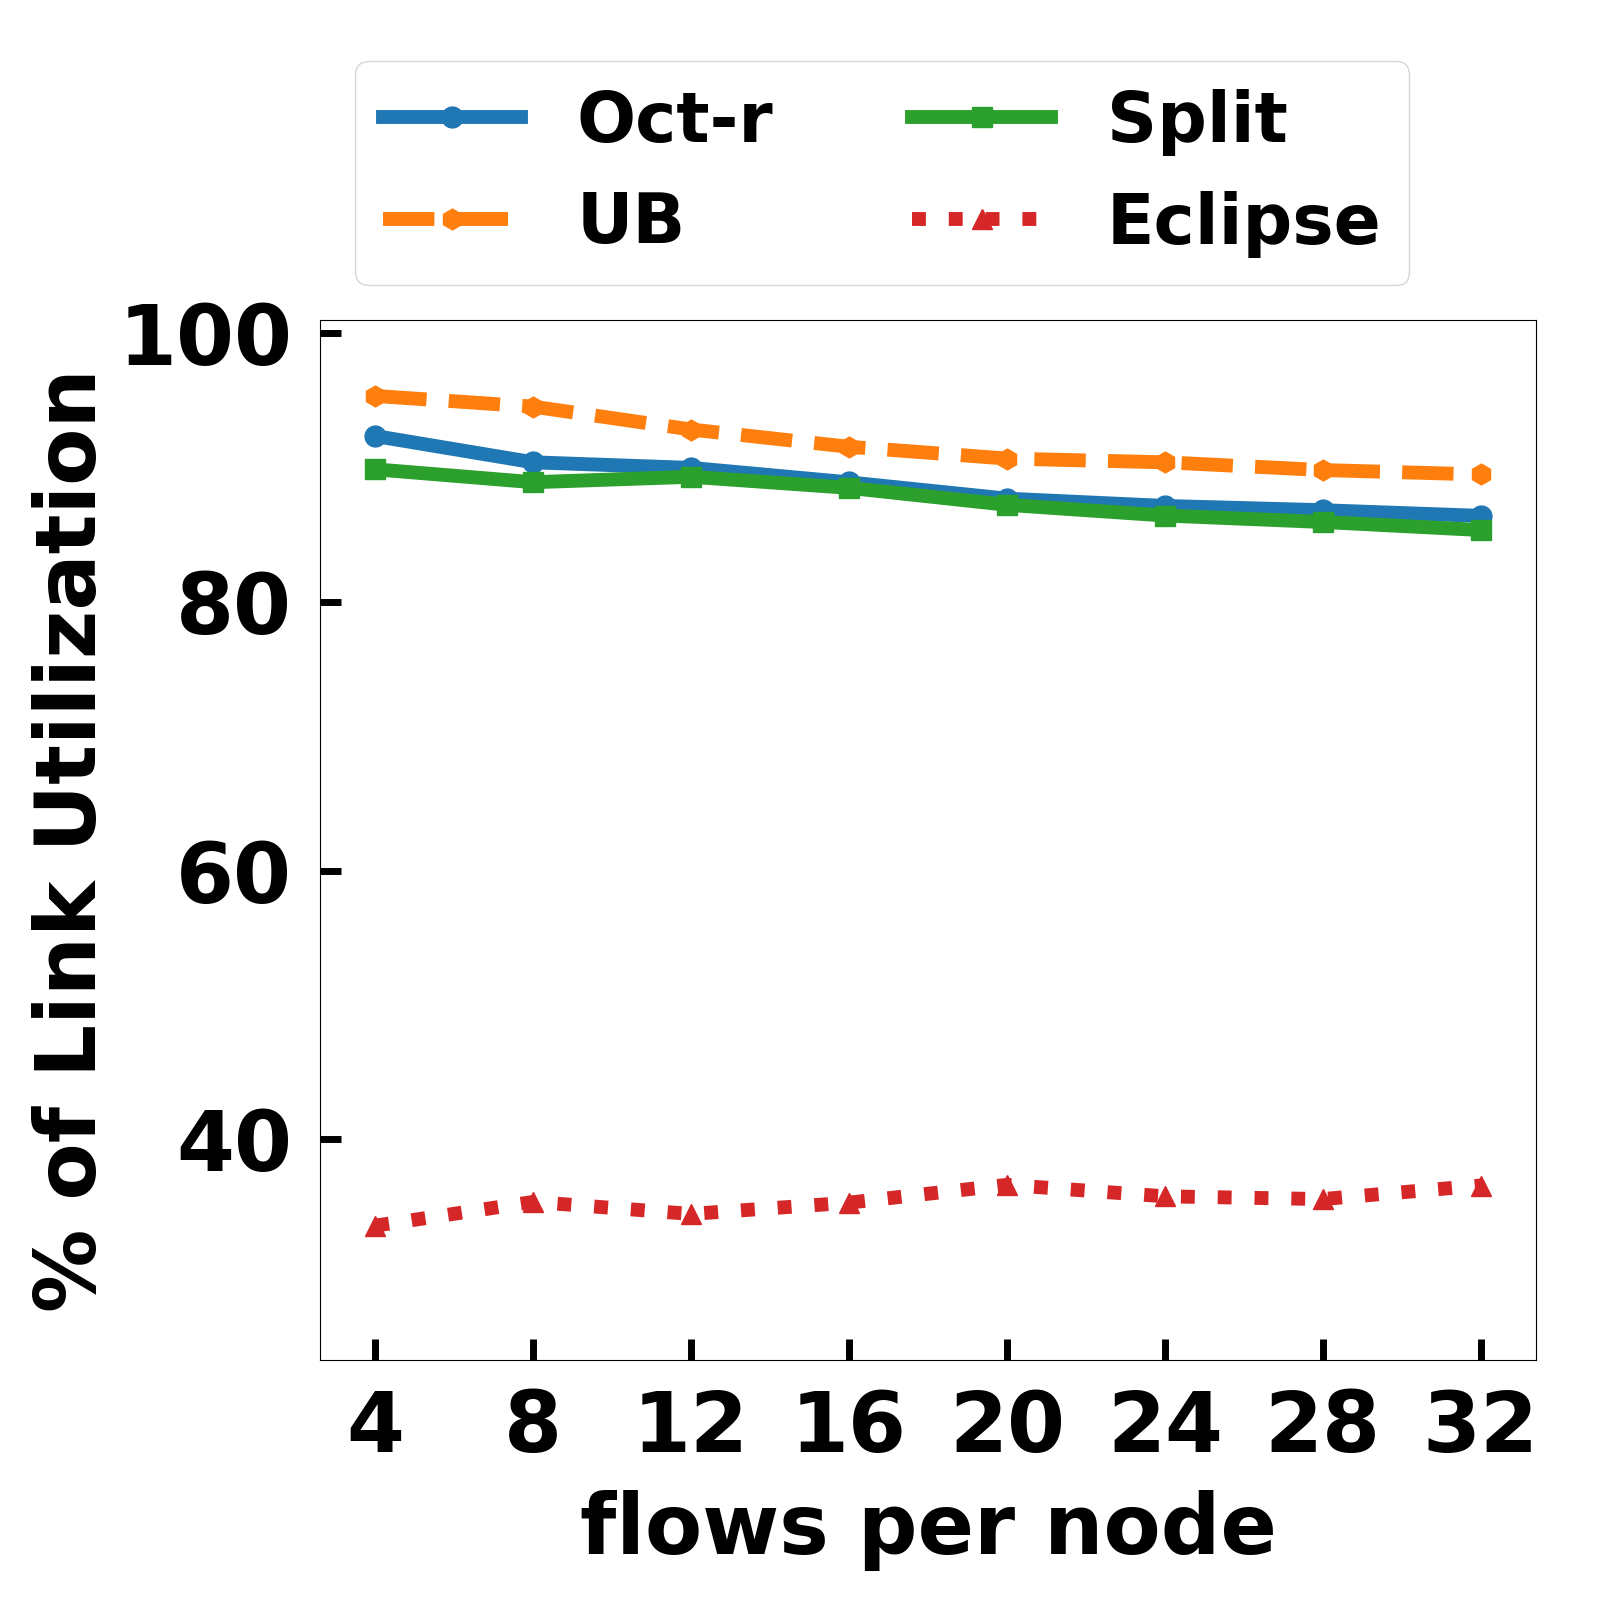
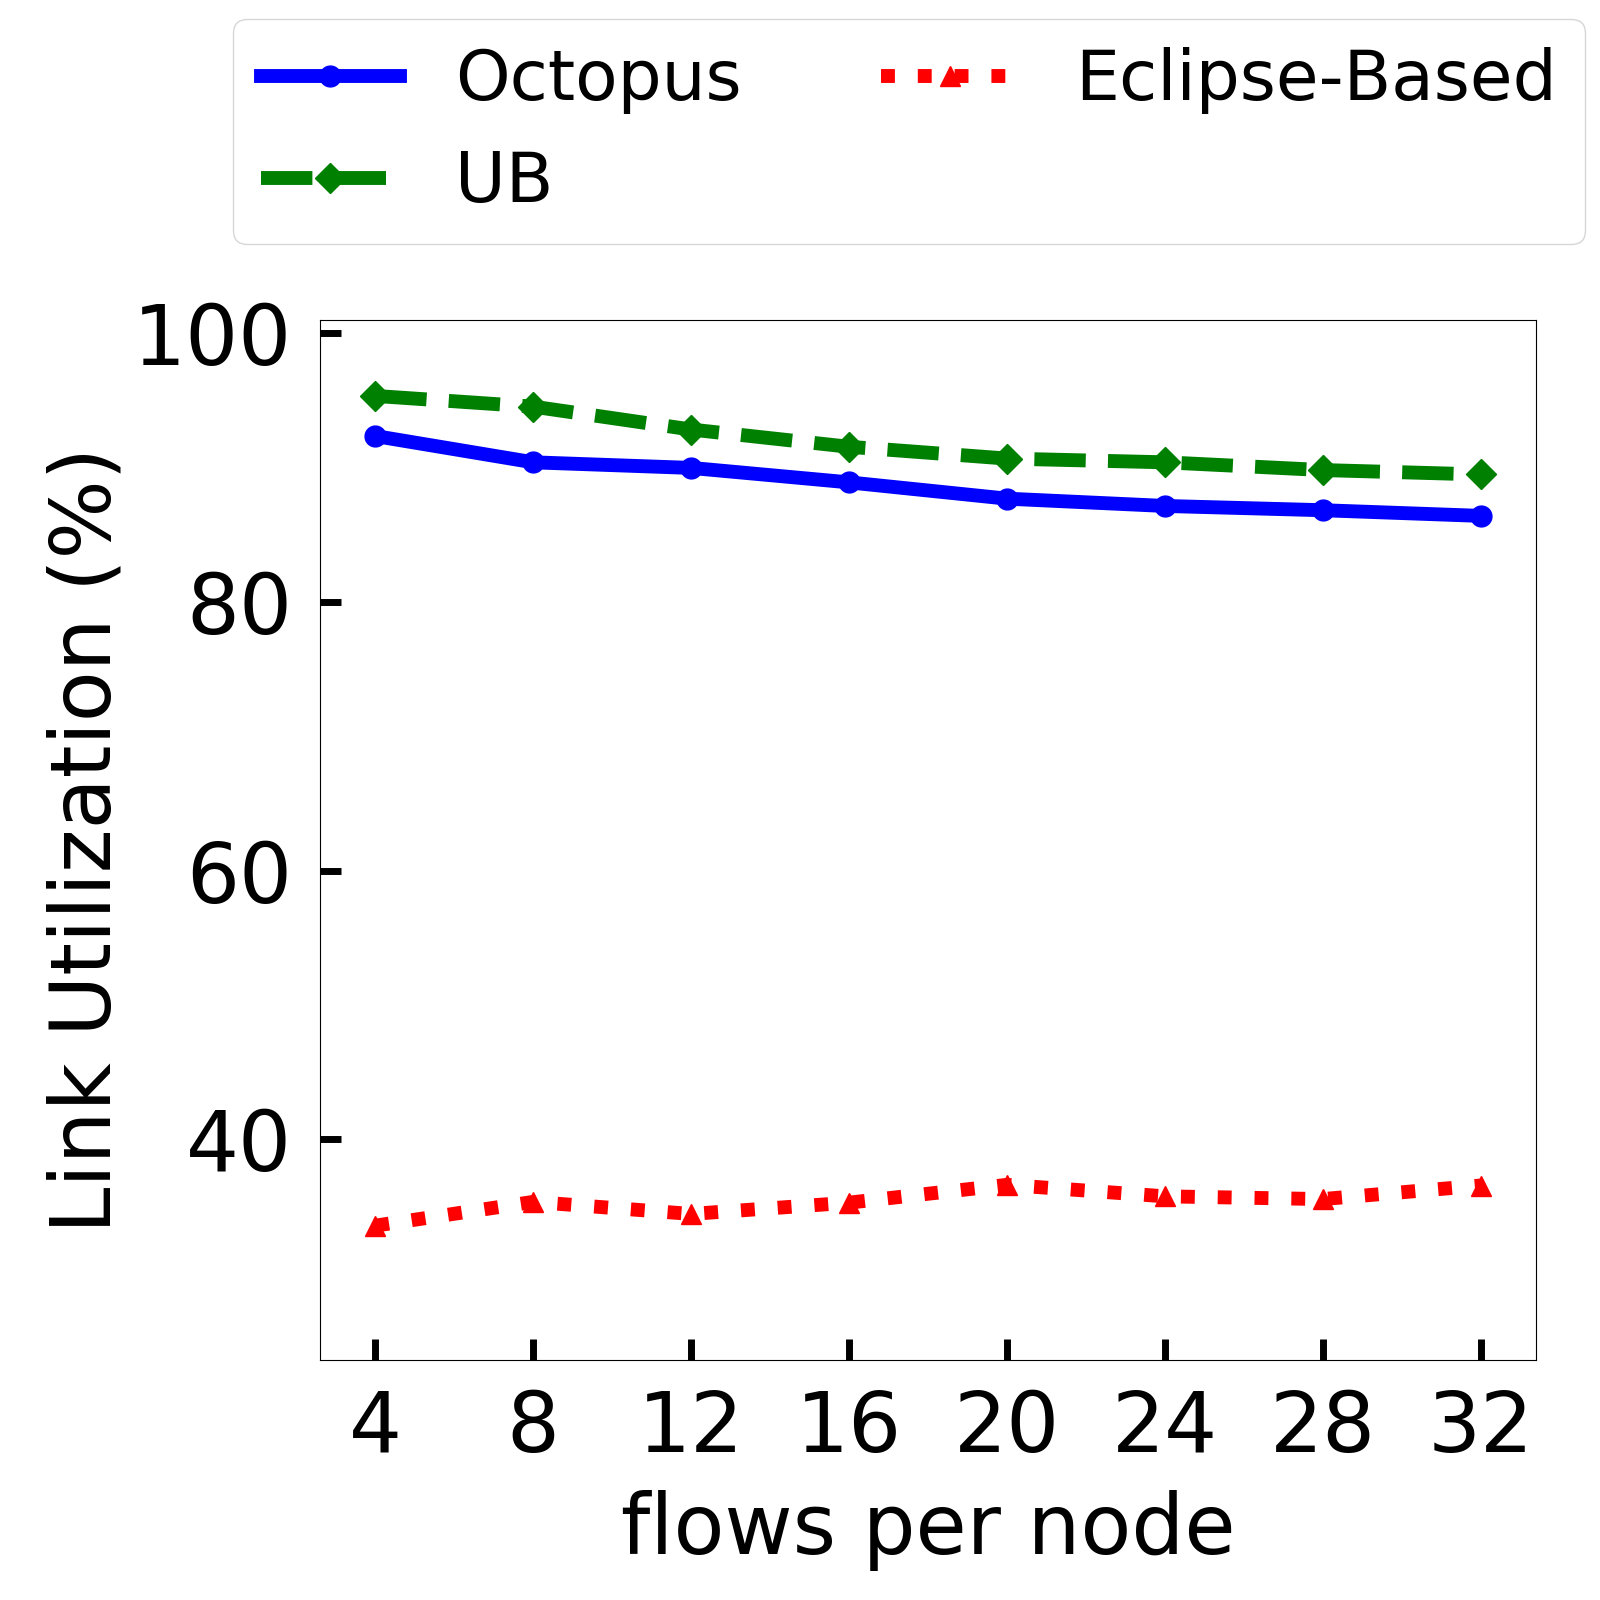
update all plots

diff --git a/plots.py b/plots.py
@@ -37,14 +37,22 @@ def y_fmt(tick_val, pos):
         return tick_val
 
 
-def plot_line(table, method, filename=None, x_label=None, x_log=False, y_label=None, absolute_ub=False):
+
+METHOD  = ['Octopus', 'Octopus+', 'Octopus-e', 'Eclipse-Based', 'UB', 'Absolute-UB']
+_COLOR  = ['b',       'c',         'm',        'r',     'g',      'orange']
+_MARKER = ['o',       'h',        's',         '^',             'D',  'P']
+_LINE   = ['-',       '--',       '-',         ':',             '--', '-.']
+COLOR   = dict(zip(METHOD, _COLOR))
+MARKER  = dict(zip(METHOD, _MARKER))
+LINE    = dict(zip(METHOD, _LINE))
+
+
+
+def plot_line(table, methods, filename=None, x_label=None, x_log=False, y_label=None, absolute_ub=False):
 	'''
 	Args:
 		table: the same table used by function tabulate.tabulate()
 	'''
-	markers    = ['o', 'h', 's', '^', 'D', 'P']     # markers
-	linestyles = ['-', '--', '-', ':', '--', '-.']  # line styles
-	
 	fig, ax = plt.subplots(figsize=(16, 16))
 	fig.subplots_adjust(left=0.2, right=0.96, top=0.8, bottom=0.15)
 	X  = [row[0] for row in table]
@@ -57,23 +65,21 @@ def plot_line(table, method, filename=None, x_label=None, x_log=False, y_label=N
 		y = [row[i] for row in table]
 		Y.append(y)
 	for i in range(0, num):
-		plt.plot(X, Y[i], linestyle=linestyles[i], marker=markers[i], label=method[i])
+		method = methods[i]
+		plt.plot(X, Y[i], linestyle=LINE[method], marker=MARKER[method], color=COLOR[method], label=method)
 
-	legend_num_column = 2
-	bbox_to_anchor = (0, 1)
 	if absolute_ub and y_label == '% of Packets Deliverd':
-		if x_label != 'Varying ave. hop count':
+		method = 'Absolute-UB'
+		if x_label != 'Average # of hops':
 			y = [66 for _ in X]	
-			plt.plot(X, y, label='A-UB')
-			legend_num_column = 3
-			bbox_to_anchor = (-0.28, 1.05)
-		if x_label == 'Varying ave. hop count':
+			plt.plot(X, y, linestyle=LINE[method], marker=MARKER[method], color=COLOR[method], label=method)
+		if x_label == 'Average # of hops':
 			y = [100, 50, 33]
-			plt.plot(X, y, linestyle='--', marker='D', label='A-UB')
+			plt.plot(X, y, linestyle=LINE[method], marker=MARKER[method], color=COLOR[method], label=method)
 
 	plt.xticks(X)
 	if x_log:       # log scale on x axis
-		plt.xticks(np.arange(-4, 0, 1), ['$10^{-4}$', '$10^{-3}$', '$10^{-2}$', '$10^{-1}$'], )
+		plt.xticks(np.arange(-4, 0, 1), ['1', '10', '100', '1000'], )
 		plt.xlim([-4, -0.9])
 
 	y_min = np.min(np.min(table, 0)[1:]) - 10
@@ -85,7 +91,7 @@ def plot_line(table, method, filename=None, x_label=None, x_log=False, y_label=N
 		y_label = y_label + ' ($10^5$)'
 
 	plt.ylim([y_min, y_max])
-	plt.legend(bbox_to_anchor=bbox_to_anchor, loc='lower left', ncol=legend_num_column, fontsize=50)
+	plt.legend(bbox_to_anchor=(-0.1, 1.04), loc='lower left', ncol=2, fontsize=50)
 	ax.tick_params(direction='in', length=15, width=5)
 	ax.tick_params(pad=20)
 
@@ -103,10 +109,10 @@ def plot1_1(path):
 	filename = '{}/num_nodes.txt'
 	data = runner.readDataFromFile(filename.format(path))
 
-	methods  = ['octopus-r', 'upper-bound', 'split', 'eclipse']
-	methods_ = ['Oct-r',     'UB',          'Split', 'Eclipse']
+	methods  = ['octopus-r', 'upper-bound',  'eclipse']
+	methods_ = ['Octopus',     'UB',         'Eclipse-Based']
 	metric   = ['percent_packets_delivered', 'link_utilization']
-	metric_  = ['% of Packets Deliverd',     '% of Link Utilization']
+	metric_  = ['% of Packets Deliverd',     'Link Utilization (%)']
 
 	reduce_func = average
 
@@ -126,10 +132,10 @@ def plot1_2(path):
 	filename = '{}/reconfig_delta.txt'
 	data = runner.readDataFromFile(filename.format(path))
 
-	methods  = ['octopus-r', 'upper-bound', 'split', 'eclipse']
-	methods_ = ['Oct-r',     'UB',          'Split', 'Eclipse']
+	methods  = ['octopus-r', 'upper-bound', 'eclipse']
+	methods_ = ['Octopus',     'UB',        'Eclipse-Based']
 	metric   = ['percent_packets_delivered', 'link_utilization']
-	metric_  = ['% of Packets Deliverd',     '% of Link Utilization']
+	metric_  = ['% of Packets Deliverd',     'Link Utilization (%)']
 
 	reduce_func = average
 
@@ -142,17 +148,17 @@ def plot1_2(path):
 		print metric[i]
 		print tabulate.tabulate(print_table, headers = ['DELTA'] + methods)
 		print ''
-		plot_line(print_table, methods_, filename='{}/{}-{}'.format(path, metric[i], 'vary_delta'), x_label='Delta/WindowSize', x_log=True, y_label=metric_[i], absolute_ub=True)
+		plot_line(print_table, methods_, filename='{}/{}-{}'.format(path, metric[i], 'vary_delta'), x_label='Reconfig. Delay (# of slots)', x_log=True, y_label=metric_[i], absolute_ub=True)
 
 
 def plot1_3(path):
 	filename = '{}/skewness.txt'
 	data = runner.readDataFromFile(filename.format(path))
 
-	methods  = ['octopus-r', 'upper-bound', 'split', 'eclipse']
-	methods_ = ['Oct-r',     'UB',          'Split', 'Eclipse']
+	methods  = ['octopus-r', 'upper-bound', 'eclipse']
+	methods_ = ['Octopus',     'UB',        'Eclipse-Based']
 	metric   = ['percent_packets_delivered', 'link_utilization']
-	metric_  = ['% of Packets Deliverd',     '% of Link Utilization']
+	metric_  = ['% of Packets Deliverd',     'Link Utilization (%)']
 
 	reduce_func = average
 
@@ -172,10 +178,10 @@ def plot1_4(path):
 	filename = '{}/sparsity.txt'
 	data = runner.readDataFromFile(filename.format(path))
 
-	methods  = ['octopus-r', 'upper-bound', 'split', 'eclipse']
-	methods_ = ['Oct-r',     'UB',          'Split', 'Eclipse']
+	methods  = ['octopus-r', 'upper-bound', 'eclipse']
+	methods_ = ['Octopus',     'UB',        'Eclipse-Based']
 	metric   = ['percent_packets_delivered', 'link_utilization']
-	metric_  = ['% of Packets Deliverd',     '% of Link Utilization']
+	metric_  = ['% of Packets Deliverd',     'Link Utilization (%)']
 
 	reduce_func = average
 
@@ -194,7 +200,7 @@ def plot1_4(path):
 def plot2(path):
 	filename = '{}/real_traffic.txt'
 	data = runner.readDataFromFile(filename.format(path))
-	methods  = ['octopus-r', 'upper-bound', 'split', 'eclipse']
+	methods  = ['octopus-r', 'upper-bound', 'eclipse']
 	metrics  = ['percent_packets_delivered']
 	metrics_ = ['% of Packets Deliverd']
 
@@ -212,24 +218,24 @@ def plot2(path):
 		arr = np.array(print_table)
 		oct_r = np.array(arr[:, 2], float)
 		ub    = np.array(arr[:, 3], float)
-		split = np.array(arr[:, 4], float)
-		eclip = np.array(arr[:, 5], float)
+		eclip = np.array(arr[:, 4], float)
+		a_ub  = [100] * 6
 
 		ind   = np.arange(len(oct_r))
 		width = 0.16
 		
-		fig, ax = plt.subplots(figsize=(22.2, 15))
+		fig, ax = plt.subplots(figsize=(23.5, 16))
 		fig.subplots_adjust(left=0.15, right=0.96, top=0.85, bottom=0.1)
-		pos1 = ind - width*1.5
-		pos2 = ind - width*0.5
-		pos3 = ind + width*0.5
-		pos4 = ind + width*1.5
-		ax.bar(pos1, eclip, width, edgecolor='black', label='Eclipse')
-		ax.bar(pos2, split, width, edgecolor='black', label='Split')
-		ax.bar(pos3, oct_r, width, edgecolor='black', label='Oct-r')
-		ax.bar(pos4, ub,    width, edgecolor='black', label='UB')
+		pos1 = ind - width*1.5-0.03
+		pos2 = ind - width*0.5-0.01
+		pos3 = ind + width*0.5+0.01
+		pos4 = ind + width*1.5+0.03
+		ax.bar(pos1, eclip, width, edgecolor='black', label='Eclipse-Based', color=COLOR['Eclipse-Based'])
+		ax.bar(pos2, oct_r, width, edgecolor='black', label='Octopus', color=COLOR['Octopus'])
+		ax.bar(pos3, ub, width, edgecolor='black', label='UB', color=COLOR['UB'])
+		ax.bar(pos4, a_ub,    width, edgecolor='black', label='Absolute-UB', color=COLOR['Absolute-UB'])
 		
-		plt.legend(bbox_to_anchor=(-0.02, 1), loc='lower left', ncol=4, fontsize=45)
+		plt.legend(bbox_to_anchor=(-0.18, 1.04), loc='lower left', ncol=4, fontsize=45)
 		ax.tick_params(axis='y', direction='in', length=10, width=3, pad=15)
 		ax.set_ylabel(metric_)
 		ax.set_xlabel('Varies Clusters')
@@ -267,7 +273,7 @@ def plot2_(path, file):
 		pos1 = ind - width*0.5
 		pos2 = ind + width*0.5
 		ax.bar(pos1, split, width, edgecolor='black', label='Split')
-		ax.bar(pos2, oct_r, width, edgecolor='black', label='Oct-r')
+		ax.bar(pos2, oct_r, width, edgecolor='black', label='Octopus')
 		
 		plt.legend(bbox_to_anchor=(-0.02, 1), loc='lower left', ncol=4, fontsize=45)
 		ax.tick_params(axis='y', direction='in', length=10, width=3, pad=15)
@@ -282,9 +288,9 @@ def plot3(path):
 	data = runner.readDataFromFile(filename.format(path))
 
 	methods  = ['octopus-r', 'upper-bound', 'eclipse']
-	methods_ = ['Oct-r',     'UB',          'Eclipse']
+	methods_ = ['Octopus',     'UB',          'Eclipse-Based']
 	metric   = ['percent_objective_value']
-	metric_  = [ '% of Objective Value']
+	metric_  = [ '(Packet Deliver)/(Obj. $\\psi$)']
 
 	reduce_func = average
 
@@ -297,7 +303,7 @@ def plot3(path):
 		print metric[i]
 		print tabulate.tabulate(print_table, headers = ['DELTA'] + methods)
 		print ''
-		plot_line(print_table, methods_, filename='{}/{}-{}'.format(path, metric[i], 'vary_delta'), x_label='Delta/WindowSize', x_log=True, y_label=metric_[i])
+		plot_line(print_table, methods_, filename='{}/{}-{}'.format(path, metric[i], 'vary_delta'), x_label='Reconfig. Delay (# of slots)', x_log=True, y_label=metric_[i])
 
 
 def plot4(path):
@@ -305,7 +311,7 @@ def plot4(path):
 	data = runner.readDataFromFile(filename.format(path))
 
 	methods  = ['octopus-r', 'octopus+']
-	methods_ = ['Oct-r',     'Oct+']
+	methods_ = ['Octopus',     'Octopus+']
 	metric   = ['percent_packets_delivered']
 	metric_  = ['% of Packets Deliverd']
 
@@ -320,15 +326,15 @@ def plot4(path):
 		print metric[i]
 		print tabulate.tabulate(print_table, headers = ['DELTA'] + methods)
 		print ''
-		plot_line(print_table, methods_, filename='{}/{}-{}'.format(path, 'octopus', 'vary_delta'), x_label='Delta/WindowSize', x_log=True, y_label=metric_[i])
+		plot_line(print_table, methods_, filename='{}/{}-{}'.format(path, 'octopus', 'vary_delta'), x_label='Reconfig. Delay (# of slots)', x_log=True, y_label=metric_[i])
 
 
 def plot5(path):
 	filenames = ['{}/eps.txt']
 	data = sum((runner.readDataFromFile(filename.format(path)) for filename in filenames), [])
 
-	methods  = ['octopus-e', 'octopus-r', 'upper-bound']
-	methods_ = ['Oct-e', 'Oct-r', 'UB']
+	methods  = ['octopus-r', 'upper-bound', 'octopus-e']
+	methods_ = ['Octopus',   'UB',          'Octopus-e']
 	metrics   = ['percent_packets_delivered', 'objective_value']
 	metrics_  = ['% of Packets Deliverd', 'Objective Value']
 
@@ -343,24 +349,26 @@ def plot5(path):
 		print metric
 		print tabulate.tabulate(print_table, headers = ['MIN_ROUTE'] + methods)
 		print ''
-		plot_line(print_table, methods_, filename='{}/{}-{}'.format(path, metric, 'vary_hop_count'), x_label='Varying ave. hop count', y_label=metric_, absolute_ub=True)
+		plot_line(print_table, methods_, filename='{}/{}-{}'.format(path, metric, 'vary_hop_count'), x_label='Average # of hops', y_label=metric_, absolute_ub=True)
 
 
 if __name__ == '__main__':
 	
 	plt.rcParams['font.size'] = 60
-	plt.rcParams['font.weight'] = 'bold'
-	plt.rcParams['axes.labelweight'] = 'bold'
+	# plt.rcParams['font.weight'] = 'bold'
+	# plt.rcParams['axes.labelweight'] = 'bold'
 	plt.rcParams['lines.linewidth'] = 10
 	plt.rcParams['lines.markersize'] = 15
 
-	path = 'data/8-4'
+	path = 'data/6-23'
 
 	plot1_1(path)  # num of nodes
-	# plot1_2(path)  # reconfig delta
-	# plot1_3(path)  # skewness
-	# plot1_4(path)  # sparsity
+	plot1_2(path)  # reconfig delta
+	plot1_3(path)  # skewness
+	plot1_4(path)  # sparsity
+	plot2(path)
+	plot3(path)    # reconfig delta + percentage objective value
+	plot4(path)    # reconfig delta + octopus+/R
+	plot5(path)    # average hop count
+
 	# plot2_(path, 'real_traffic-10-merge')    # real traffic
-	# plot3(path)    # reconfig delta + percentage objective value
-	# plot4(path)    # reconfig delta + octopus+/R
-	# plot5(path)    # average hop count
